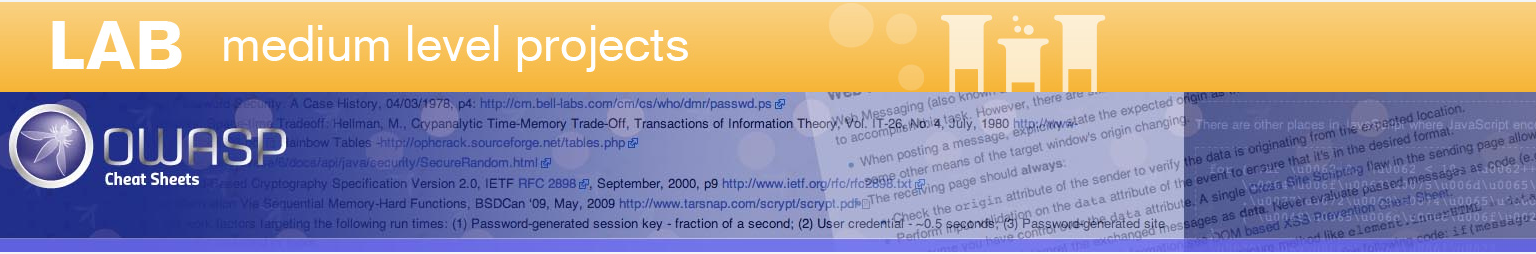
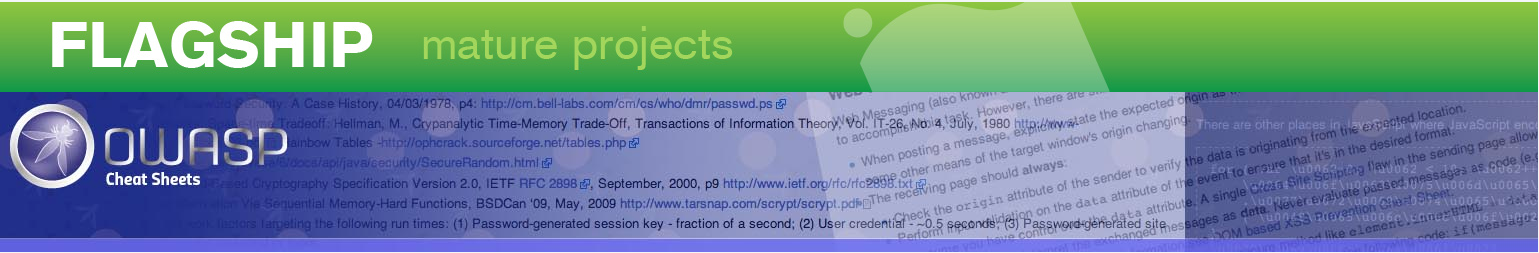
Upgrade to Flagship

diff --git a/README.md b/README.md
@@ -1,5 +1,6 @@
-![CSCounterBadge](https://img.shields.io/badge/Cheat_sheets_available-63-orange.svg)
-![LicenseBadge](https://img.shields.io/badge/License-C_C-blue.svg)
+[![OWASP Flagship](https://img.shields.io/badge/owasp-flagship%20project-48A646.svg)](https://www.owasp.org/index.php/OWASP_Project_Inventory#tab=Flagship_Projects)
+![CSCounterBadge](https://img.shields.io/badge/cheat_sheets_available-63-orange.svg)
+![LicenseBadge](https://img.shields.io/badge/license-C_C-blue.svg)
 [![PushAndPullRequestIntegrityCheck](https://travis-ci.org/OWASP/CheatSheetSeries.svg?branch=master)](https://travis-ci.org/OWASP/CheatSheetSeries)
 [![OfflineWebsiteBuild](https://circleci.com/gh/OWASP/CheatSheetSeries/tree/master.svg?style=svg)](https://circleci.com/gh/OWASP/CheatSheetSeries/tree/master)
 
